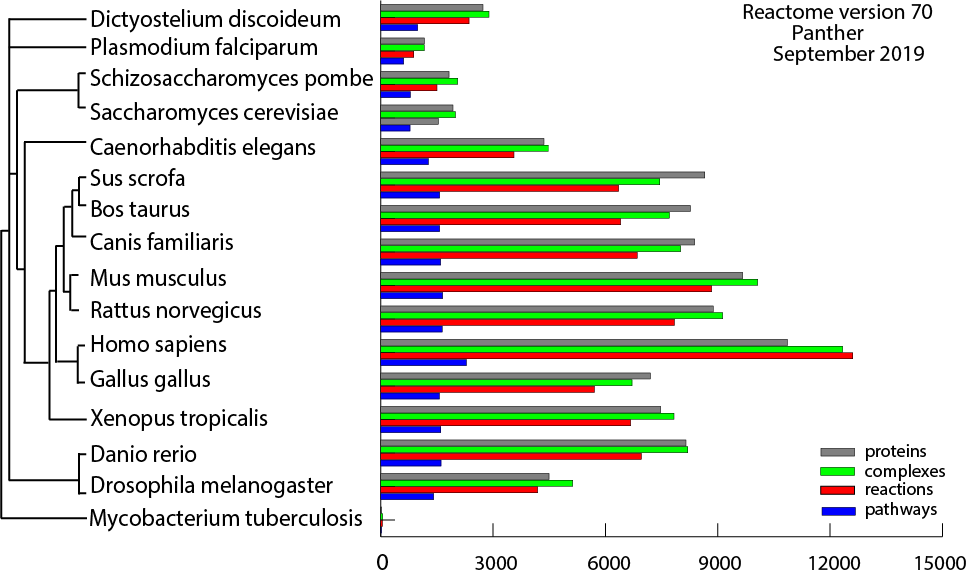
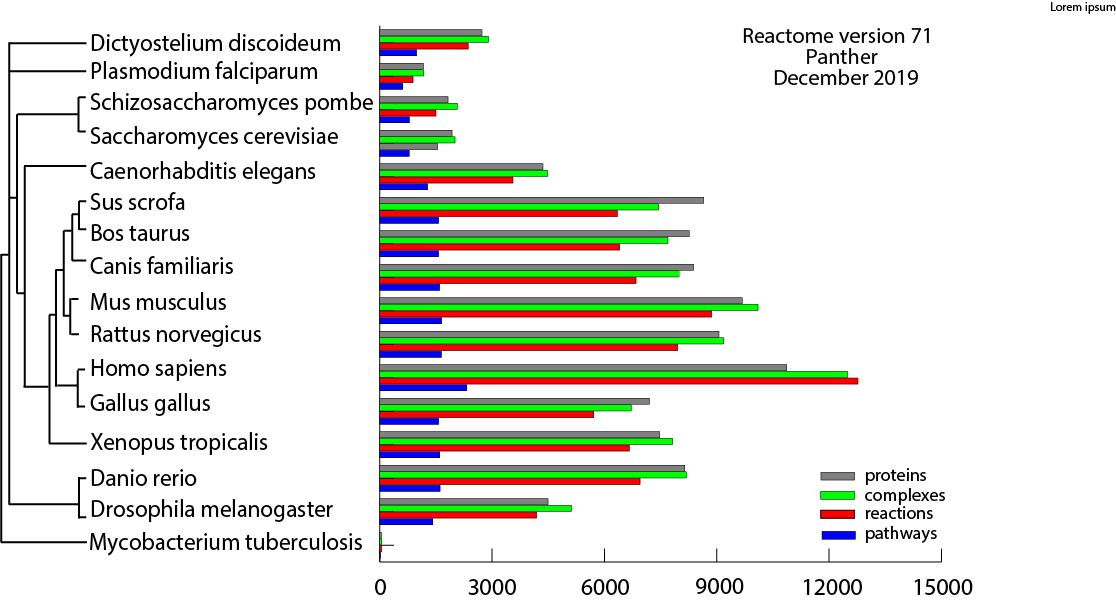
v71 statistics

diff --git a/scripts/release/website_files_update/stats.html b/scripts/release/website_files_update/stats.html
@@ -12,117 +12,117 @@
     <tr>
         <td data-label="SPECIES">D. discoideum</td>
         <td data-label="">2729</td>
-        <td data-label="">2889</td>
-        <td data-label="">2357</td>
-        <td data-label="">981</td>
+        <td data-label="">2898</td>
+        <td data-label="">2362</td>
+        <td data-label="">984</td>
     </tr>
     <tr>
         <td data-label="SPECIES">P. falciparum</td>
         <td data-label="">1162</td>
-        <td data-label="">1160</td>
-        <td data-label="">882</td>
-        <td data-label="">612</td>
+        <td data-label="">1168</td>
+        <td data-label="">887</td>
+        <td data-label="">616</td>
     </tr>
     <tr>
         <td data-label="SPECIES">S. pombe</td>
-        <td data-label="">1823</td>
-        <td data-label="">2055</td>
-        <td data-label="">1498</td>
-        <td data-label="">788</td>
+        <td data-label="">1824</td>
+        <td data-label="">2066</td>
+        <td data-label="">1501</td>
+        <td data-label="">791</td>
     </tr>
     <tr>
         <td data-label="SPECIES">S. cerevisiae</td>
-        <td data-label="">1927</td>
-        <td data-label="">1993</td>
-        <td data-label="">1537</td>
-        <td data-label="">783</td>
+        <td data-label="">1931</td>
+        <td data-label="">2011</td>
+        <td data-label="">1544</td>
+        <td data-label="">784</td>
     </tr>
     <tr>
         <td data-label="SPECIES">C. elegans</td>
         <td data-label="">4357</td>
-        <td data-label="">4476</td>
+        <td data-label="">4479</td>
         <td data-label="">3555</td>
-        <td data-label="">1273</td>
+        <td data-label="">1275</td>
     </tr>
     <tr>
         <td data-label="SPECIES">S. scrofa</td>
-        <td data-label="">8653</td>
-        <td data-label="">7454</td>
-        <td data-label="">6350</td>
-        <td data-label="">1570</td>
+        <td data-label="">8651</td>
+        <td data-label="">7445</td>
+        <td data-label="">6346</td>
+        <td data-label="">1569</td>
     </tr>
     <tr>
         <td data-label="SPECIES">B. taurus</td>
-        <td data-label="">8267</td>
-        <td data-label="">7705</td>
-        <td data-label="">6406</td>
-        <td data-label="">1570</td>
+        <td data-label="">8265</td>
+        <td data-label="">7696</td>
+        <td data-label="">6404</td>
+        <td data-label="">1569</td>
     </tr>
     <tr>
         <td data-label="SPECIES">C. familiaris</td>
-        <td data-label="">8382</td>
-        <td data-label="">8008</td>
-        <td data-label="">6848</td>
+        <td data-label="">8380</td>
+        <td data-label="">7995</td>
+        <td data-label="">6844</td>
         <td data-label="">1601</td>
     </tr>
     <tr>
         <td data-label="SPECIES">M. musculus</td>
-        <td data-label="">9665</td>
-        <td data-label="">10068</td>
-        <td data-label="">8837</td>
+        <td data-label="">9679</td>
+        <td data-label="">10104</td>
+        <td data-label="">8866</td>
         <td data-label="">1654</td>
     </tr>
     <tr>
         <td data-label="SPECIES">R. norvegicus</td>
-        <td data-label="">8879</td>
-        <td data-label="">9131</td>
-        <td data-label="">7842</td>
-        <td data-label="">1639</td>
+        <td data-label="">9060</td>
+        <td data-label="">9181</td>
+        <td data-label="">7958</td>
+        <td data-label="">1642</td>
     </tr>
     <tr>
         <td data-label="SPECIES">*H. sapiens</td>
-        <td data-label="">10860</td>
-        <td data-label="">12335</td>
-        <td data-label="">12608</td>
-        <td data-label="">2287</td>
+        <td data-label="">10870</td>
+        <td data-label="">12489</td>
+        <td data-label="">12770</td>
+        <td data-label="">2325</td>
     </tr>
     <tr>
         <td data-label="SPECIES">G. gallus</td>
-        <td data-label="">7199</td>
-        <td data-label="">6712</td>
-        <td data-label="">5706</td>
-        <td data-label="">1567</td>
+        <td data-label="">7198</td>
+        <td data-label="">6715</td>
+        <td data-label="">5717</td>
+        <td data-label="">1570</td>
     </tr>
     <tr>
         <td data-label="SPECIES">X. tropicalis</td>
-        <td data-label="">7477</td>
-        <td data-label="">7830</td>
-        <td data-label="">6673</td>
+        <td data-label="">7475</td>
+        <td data-label="">7820</td>
+        <td data-label="">6668</td>
         <td data-label="">1603</td>
     </tr>
     <tr>
         <td data-label="SPECIES">D. rerio</td>
-        <td data-label="">8150</td>
-        <td data-label="">8201</td>
-        <td data-label="">6958</td>
+        <td data-label="">8148</td>
+        <td data-label="">8187</td>
+        <td data-label="">6952</td>
         <td data-label="">1611</td>
     </tr>
     <tr>
         <td data-label="SPECIES">D. melanogaster</td>
-        <td data-label="">4495</td>
-        <td data-label="">5124</td>
-        <td data-label="">4189</td>
-        <td data-label="">1414</td>
+        <td data-label="">4494</td>
+        <td data-label="">5115</td>
+        <td data-label="">4188</td>
+        <td data-label="">1415</td>
     </tr>
     <tr>
         <td data-label="SPECIES">M. tuberculosis</td>
-        <td data-label="">18</td>
-        <td data-label="">46</td>
-        <td data-label="">44</td>
+        <td data-label="">39</td>
+        <td data-label="">53</td>
+        <td data-label="">51</td>
         <td data-label="">13</td>
     </tr>
         </tbody>
     </table>
 </div>
 <p></p>
-<p>*Reactome annotates to protein isoforms when this information is available. The total number of curated human proteins including isoforms is 11040</p>
+<p>*Reactome annotates to protein isoforms when this information is available. The total number of curated human proteins including isoforms is 11053</p>
